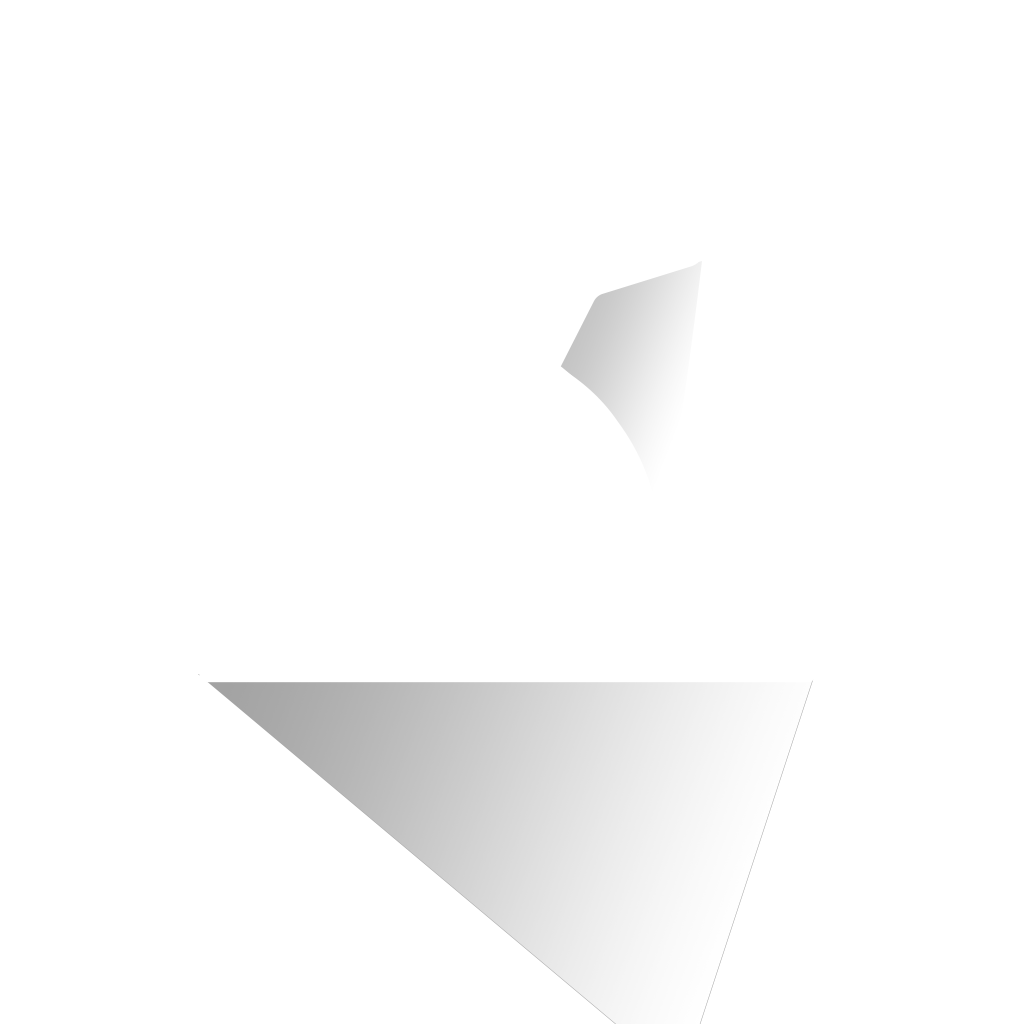
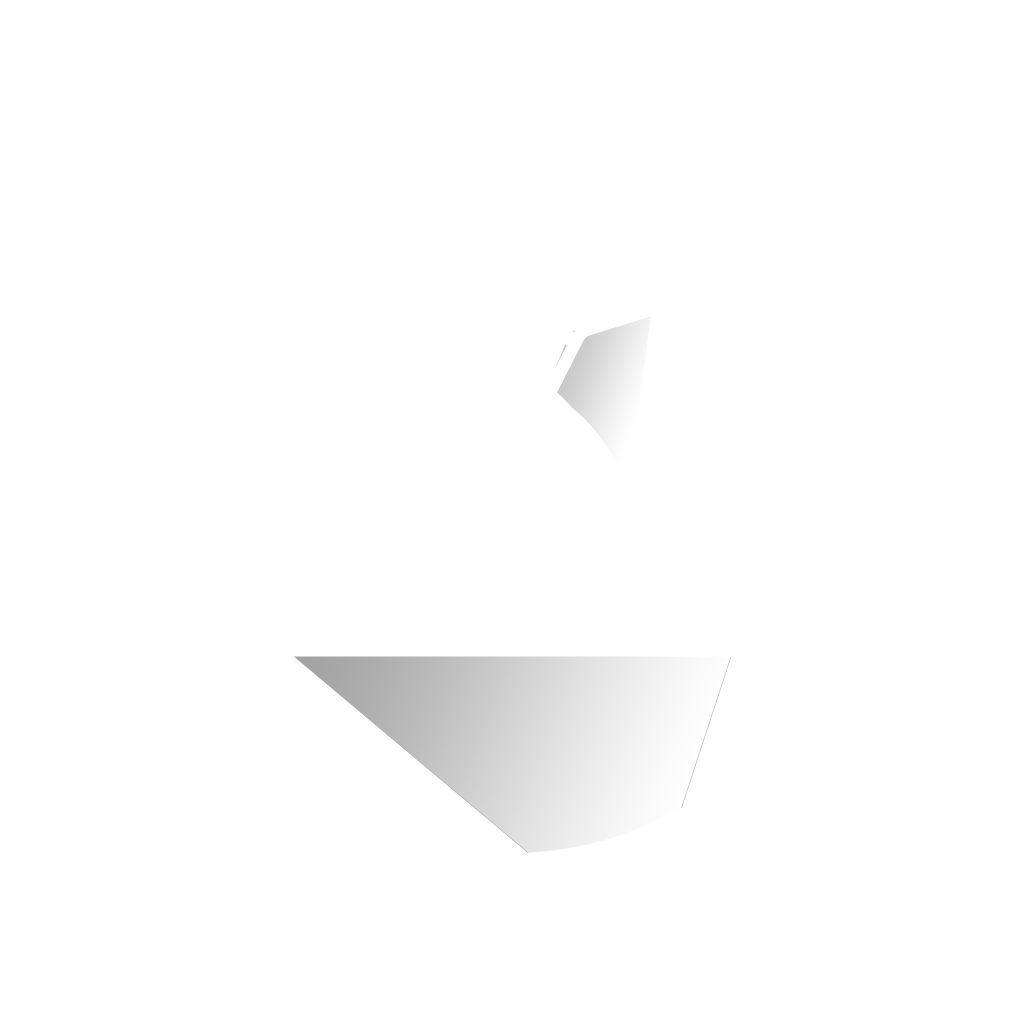
Inverted flatlist

Changed region(s): [[0.1875, 0.625, 0.5938, 0.9375], [0.5625, 0.25, 0.6562, 0.3438], [0.5312, 0.3438, 0.5938, 0.4062]]

diff --git a/menus/PlayerSelection.js b/menus/PlayerSelection.js
@@ -110,13 +110,14 @@ export default class PlayerSelection extends React.Component {
                         </View>
                         {/* white area */}
                         <View style={styles.game_area}>
+                        <Text style={styles.title}>Build Your Party!</Text>
                             <FlatList
+                                inverted={true}
                                 style={styles.player_style}
                                 data={this.state.playerList}
                                 extraData={this.state}
                                 keyExtractor={(item) => (item.id).toString()}
-                                renderItem={({ item }) => <Player info={item} flist={this}/>}
-                            />
+                                renderItem={({ item }) => <Player info={item} flist={this}/>}/>
 
 
 
@@ -188,7 +189,7 @@ const styles = StyleSheet.create({
         alignItems: 'stretch',
     },
     logo_area: {
-        flex: 1,
+        height: 150,
         justifyContent: 'center',
         alignItems: 'center',
     },
@@ -208,7 +209,7 @@ const styles = StyleSheet.create({
     },
     player_style: {
         width: '90%',
-
+        marginBottom: 60,
     },
     add_pb: {
         flex: 3,
@@ -243,6 +244,15 @@ const styles = StyleSheet.create({
        fontSize: 18,
        marginRight: 5,
        marginLeft: 5,
+    },
+    title:{
+      width: '100%',
+      fontSize: 24,
+      fontWeight: "bold",
+      color: "#ff4e47",
+      marginTop: 5,
+      marginBottom: 10,
+      textAlign: "center"
     }
 
 });
